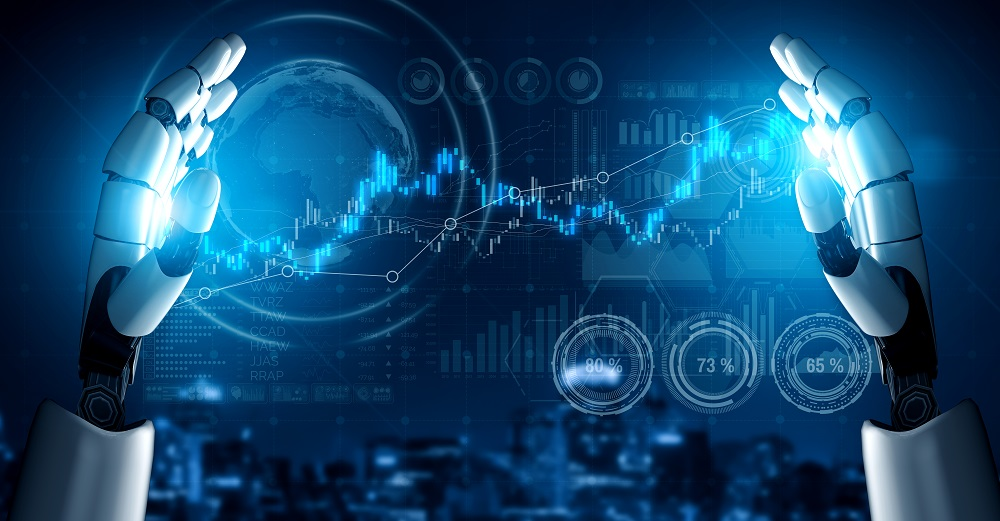
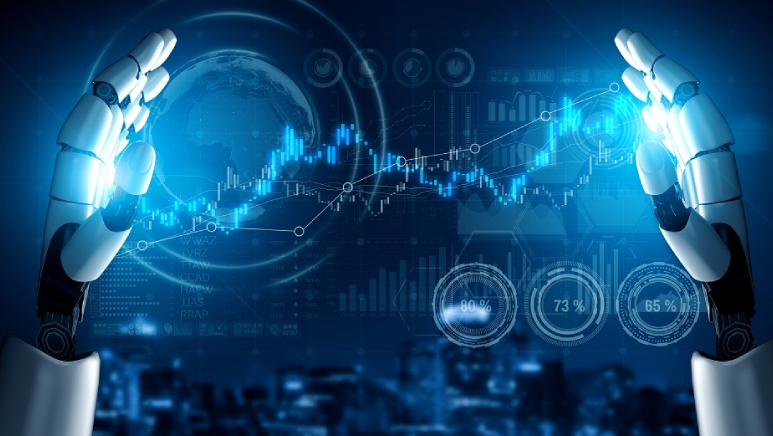
corrections with map

diff --git a/services.html b/services.html
@@ -1,8 +1,14 @@
 <!DOCTYPE html>
 <html>
   <head>
+    <link rel="icon" type="image/png" href="./images/favicon-16x16.png" />
     <link rel="stylesheet" href="./css/style.css" data-n-g="" />
     <script src="./components/Header.js" type="text/javascript" defer></script>
+    <script>
+      function redirect(path) {
+        window.location.href=`/${path}`
+      }
+    </script>
     <head-component></head-component>
   </head>
   <body>
@@ -94,9 +100,9 @@
           </div>
           <div class="row">
             <div class="col-lg-3 col-sm-6">
-              <div class="single-team-box">
+              <div class="single-team-box" onclick="redirect('services-ai.html')">
                 <div class="image">
-                  <img src="../images/team/team1.jpg" alt="Team Image" />
+                  <img src="./images/service-home/ai.png" alt="Team Image" />
                 </div>
                 <div class="content">
                   <h3>AI & Data Science</h3>
@@ -104,9 +110,9 @@
               </div>
             </div>
             <div class="col-lg-3 col-sm-6">
-              <div class="single-team-box">
+              <div class="single-team-box" onclick="redirect('services-marketing.html')">
                 <div class="image">
-                  <img src="../images/team/team2.jpg" alt="Team Image" />
+                  <img src="./images/service-home/mart-bkp.png" alt="Team Image" />
                 </div>
                 <div class="content">
                   <h3>Marketing Analytics</h3>
@@ -114,9 +120,9 @@
               </div>
             </div>
             <div class="col-lg-3 col-sm-6">
-              <div class="single-team-box">
+              <div class="single-team-box" onclick="redirect('services-bigdata.html')">
                 <div class="image">
-                  <img src="../images/team/team3.jpg" alt="Team Image" />
+                  <img src="./images/service-home/bd.png" alt="Team Image" />
                 </div>
                 <div class="content">
                   <h3>Big Data Analytics</h3>
@@ -124,9 +130,9 @@
               </div>
             </div>
             <div class="col-lg-3 col-sm-6">
-              <div class="single-team-box">
+              <div class="single-team-box" onclick="redirect('services-customer.html')">
                 <div class="image">
-                  <img src="../images/team/team4.jpg" alt="Team Image" />
+                  <img src="./images/service-home/ca.png" alt="Team Image" />
                 </div>
                 <div class="content">
                   <h3>Customer Analytics</h3>

diff --git a/components/Header.js b/components/Header.js
@@ -12,7 +12,7 @@ class Header extends HTMLElement {
           <a class="navbar-brand" href="index.html"
             ><img
               src="../images/logo-white.png"
-              class="main-logo"
+              class="main-logo logo-adjust"
               alt="logo" /><img
               src="../images/logo.png"
               class="optional-logo"
@@ -130,7 +130,7 @@ class Footer extends HTMLElement {
               <div class="single-footer-widget">
                 <div class="logo">
                   <a href="../index.html"
-                    ><img src="../images/logo-white.png" alt="image"
+                    ><img src="../images/logo-white.png" alt="image" class="logo-adjust"
                   /></a>
                   <p>
                   Sumplus offers state-of-the-art AI solutions which are enterprise-ready and respects the privacy of its users&#39; data. We adhere to the best-in-class data privacy and security protocols.
@@ -194,7 +194,7 @@ class Footer extends HTMLElement {
                 <li><a href="index.html">Home</a></li>
                   <li><a href="../about.html">About Us</a></li>
                   <li><a href="services.html">Services</a></li>
-                  <li><a href="industries.html">Industries</a></li>
+                  <li><a href="industry.html">Industries</a></li>
                   <li><a href="career.html">Career</a></li>
                   <li><a href="contact.html">Contact Us</a></li>
                 </ul>
@@ -229,7 +229,7 @@ class Footer extends HTMLElement {
             <div class="row align-items-center">
               <div class="col-lg-6 col-md-6 col-sm-6">
                 <p>
-                  Copyright ©<!-- -->2023<!-- -->
+                  Copyright &#169; 2019
                   Sum Plus. All Rights Reserved.
                 </p>
               </div>
@@ -298,7 +298,7 @@ class Head extends HTMLElement {
           href="https://fonts.googleapis.com/css?family=Open+Sans:300,300i,400,400i,600,600i,700,700i,800,800i&amp;display=swap"
           rel="stylesheet"
         />
-        <link rel="icon" type="image/png" href="../favicon.png" />
+        <link rel="icon" type="image/png" href="../images/favicon-16x16.png" />
         <link rel="stylesheet" href="./css/style.css" data-n-g="" />
         <link rel="stylesheet" href="./css/custom.css" />
         `;

diff --git a/services-customer.html b/services-customer.html
@@ -1,6 +1,7 @@
 <!DOCTYPE html>
 <html>
   <head>
+    <link rel="icon" type="image/png" href="./images/favicon-16x16.png" />
     <link rel="stylesheet" href="./css/style.css" data-n-g="" />
     <script src="./components/Header.js" type="text/javascript" defer></script>
     <head-component></head-component>
@@ -24,7 +25,7 @@
           <div class="line"></div>
         </div>
       </div>
-      <section class="blog-details-area ptb-110">
+      <section class="blog-details-area pb-100">
         <div class="container">
           <div class="row">
             <div class="col-lg-12 col-md-12">
@@ -59,9 +60,9 @@
                       </figure>
                     </li>
                   </ul>
-                  <P>Social media, open information, new business models, and ever increasing options make it paramount to understand the pulse of customers and predict their behaviours.</P>
-
-                   <P> Analytics is helping organisations predict purchase patterns, customer behaviours, lifestyle preferences, and offering them hyper-personalised propositions.</P><P> Data, technology, and predictive analytics are being used to redefine customer interactions.</P>
+                  <P>Social media, open information, new business models, and ever increasing options make it paramount to understand the pulse of customers and predict their behaviours.
+                    Analytics is helping organisations predict purchase patterns, customer behaviours, lifestyle preferences, and offering them hyper-personalised propositions.
+                    Data, technology, and predictive analytics are being used to redefine customer interactions.</P>
                     </P>
                   <h3>Partnering With Organizations Across Industries </h3>
                   <p>

diff --git a/services-ai.html b/services-ai.html
@@ -1,6 +1,7 @@
 <!DOCTYPE html>
 <html>
   <head>
+    <link rel="icon" type="image/png" href="./images/favicon-16x16.png" />
     <link rel="stylesheet" href="./css/style.css" data-n-g="" />
     <script src="./components/Header.js" type="text/javascript" defer></script>
     <head-component></head-component>
@@ -24,7 +25,7 @@
           <div class="line"></div>
         </div>
       </div>
-      <section class="blog-details-area ptb-110">
+      <section class="blog-details-area pb-100">
         <div class="container">
           <div class="row">
             <div class="col-lg-12 col-md-12">
@@ -56,12 +57,12 @@
                   <ul class="wp-block-gallery columns-3">
                     <li class="blocks-gallery-item">
                       <figure>
-                        <img src="../images/blog/blogAI1.avif" alt="image" />
+                        <img src="../images/blog/blogAI1.jpeg" alt="image" />
                       </figure>
                     </li>
                     <li class="blocks-gallery-item">
                       <figure>
-                        <img src="../images/blog/blogAI3.jpeg" alt="image" />
+                        <img src="../images/blog/blogAI3.jpg" alt="image" />
                       </figure>
                     </li>
                     <li class="blocks-gallery-item">

diff --git a/contact.html b/contact.html
@@ -1,9 +1,9 @@
 <!DOCTYPE html>
 <html>
   <head>
+    <link rel="icon" type="image/png" href="./images/favicon-16x16.png" />
     <link rel="stylesheet" href="./css/style.css" data-n-g="" />
     <script src="./components/Header.js" type="text/javascript" defer></script>
-    <script src="https://cdn.jsdelivr.net/npm/nodemailer@6.9.1/lib/nodemailer.min.js"></script>
     <head-component></head-component>
   </head>
   <body>
@@ -173,6 +173,9 @@
               </ul>
             </div>
           </div>
+        </div>
+        <div class="map-container">
+          <iframe src="https://www.google.com/maps/embed?pb=!1m18!1m12!1m3!1d124380.56790008835!2d80.11020105968126!3d13.042498388106091!2m3!1f0!2f0!3f0!3m2!1i1024!2i768!4f13.1!3m3!1m2!1s0x3a5267b7e87b8e77%3A0x588f9e91541227be!2sWorkafella%20Teynampet%20-%20Coworking%20Space%20in%20Chennai!5e0!3m2!1sen!2sin!4v1677863608576!5m2!1sen!2sin" width="100%" height="450" style="border:0;" allowfullscreen="" loading="lazy" referrerpolicy="no-referrer-when-downgrade"></iframe>
         </div>
       </section>
       <footer-component></footer-component>

diff --git a/services-bigdata.html b/services-bigdata.html
@@ -1,6 +1,7 @@
 <!DOCTYPE html>
 <html>
   <head>
+    <link rel="icon" type="image/png" href="./images/favicon-16x16.png" />
     <link rel="stylesheet" href="./css/style.css" data-n-g="" />
     <script src="./components/Header.js" type="text/javascript" defer></script>
     <head-component></head-component>
@@ -24,7 +25,7 @@
           <div class="line"></div>
         </div>
       </div>
-      <section class="blog-details-area ptb-110">
+      <section class="blog-details-area pb-100">
         <div class="container">
           <div class="row">
             <div class="col-lg-12 col-md-12">

diff --git a/services-marketing.html b/services-marketing.html
@@ -1,6 +1,7 @@
 <!DOCTYPE html>
 <html>
   <head>
+    <link rel="icon" type="image/png" href="./images/favicon-16x16.png" />
     <link rel="stylesheet" href="./css/style.css" data-n-g="" />
     <script src="./components/Header.js" type="text/javascript" defer></script>
     <head-component></head-component>
@@ -24,7 +25,7 @@
           <div class="line"></div>
         </div>
       </div>
-      <section class="blog-details-area ptb-110">
+      <section class="blog-details-area pb-100">
         <div class="container">
           <div class="row">
             <div class="col-lg-12 col-md-12">

diff --git a/css/custom.css b/css/custom.css
@@ -21,5 +21,24 @@
   justify-content: center;
 }
 .home-services .single-services-card {
-  min-height: 46vw;
+  min-height: 440px;
+}
+.logo-adjust {
+  height: 55px;
+}
+.single-team-box {
+  cursor: pointer;
+}
+.article-image img {
+  width: 70%;
+}
+.faq-image {
+  margin-top: 8%;
+}
+.faq-image img {
+  width: 110% !important;
+  max-width: 110% !important;
+}
+.map-container {
+  margin-top: 5%;
 }

diff --git a/about.html b/about.html
@@ -1,6 +1,7 @@
 <!DOCTYPE html>
 <html>
   <head>
+    <link rel="icon" type="image/png" href="./images/favicon-16x16.png" />
     <link rel="stylesheet" href="./css/style.css" data-n-g="" />
     <script src="./components/Header.js" type="text/javascript" defer></script>
     <head-component></head-component>

diff --git a/career.html b/career.html
@@ -1,6 +1,7 @@
 <!DOCTYPE html>
 <html>
   <head>
+    <link rel="icon" type="image/png" href="./images/favicon-16x16.png" />
     <link rel="stylesheet" href="./css/style.css" data-n-g="" />
     <script src="./components/Header.js" type="text/javascript" defer></script>
     <head-component></head-component>

diff --git a/industry.html b/industry.html
@@ -1,6 +1,7 @@
 <!DOCTYPE html>
 <html>
   <head>
+    <link rel="icon" type="image/png" href="./images/favicon-16x16.png" />
     <link rel="stylesheet" href="./css/style.css" data-n-g="" />
     <script src="./components/Header.js" type="text/javascript" defer></script>
     <script type="text/javascript">

diff --git a/index.html b/index.html
@@ -2,6 +2,7 @@
 <html>
   <head>
     <link rel="stylesheet" href="./css/style.css" data-n-g="" />
+    <link rel="icon" type="image/png" href="./images/favicon-16x16.png" />
     <script src="./components/Header.js" type="text/javascript" defer></script>
     <head-component></head-component>
   </head>
